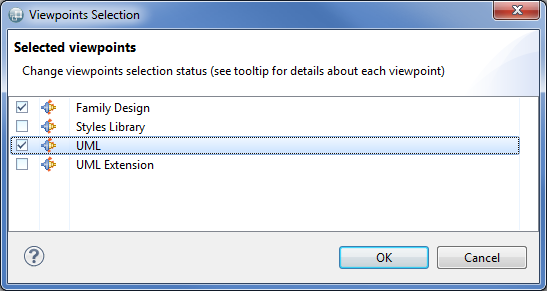
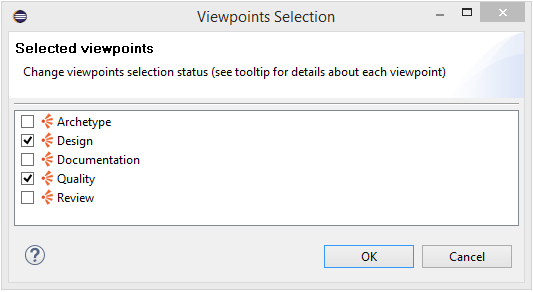
[460603] Change decorators in the Viewpoint Selection Dialog
In the Viewpoint Selection Dialog and in ViewpointsSelectionWizardPage,
remove the "plug-in" decorator for
viewpoints loaded from plug-ins, and add a "Folder" decorator for
viewpoints loaded from the current workspace.

Bug: 460603

diff --git a/plugins/org.eclipse.sirius.doc/doc/Release Notes.html b/plugins/org.eclipse.sirius.doc/doc/Release Notes.html
@@ -41,6 +41,10 @@
 		</ol>
 		<p>This document contains the release notes for all major releases of Sirius.</p>
 		<h2 id="sirius3.0.0">Changes in Sirius 3.0.0 (from Sirius 2.0.0)</h2>
+		<h3 id="UserVisibleChanges">User-Visible Changes</h3>
+		<ul>
+			<li>In the Viewpoint Selection Dialog and ViewpointsSelectionWizardPage, the &#171;plug-in&#187; decorator for viewpoints loaded from plug-ins is removed, and a &#171;Folder&#187; decorator for viewpoints loaded from the current workspace has been added on the top of the default viewpoint icon.</li>
+		</ul>
 		<h3 id="SpecifierVisibleChanges">Specifier-Visible Changes</h3>
 		<ul>
 			<li>In Open menu, the menu is computed from the navigation tool label instead of its name/id.</li>
@@ -75,7 +79,7 @@
 				<code>org.eclipse.sirius.business.api.helper.SiriusUtil.ENVIRONMENT_URI_SCHEME</code> declares environment URI scheme.
 			</li>
 			<li>Constant 
-				<code>org.eclipse.sirius.business.api.helper.SiriusUtil.VIEWPOINT_ENVIRONMENT_RESOURCE_URI</code> declares &#8220;environment:/viewpoint&#8221; resource uri.
+				<code>org.eclipse.sirius.business.api.helper.SiriusUtil.VIEWPOINT_ENVIRONMENT_RESOURCE_URI</code> declares &#171;environment:/viewpoint&#187; resource uri.
 			</li>
 			<li>Constant 
 				<code>org.eclipse.sirius.viewpoint.description.util.DescriptionResourceImpl.OPTION_SIRIUS_USE_URI_FRAGMENT_AS_ID</code> added to define a option to enable the use of a id map for odesign resource, id being uri&#8217;s fragment. 
@@ -88,14 +92,6 @@
 			<li>The 
 				<code>org.eclipse.sirius.business.api.session.Session.createSemanticResource()</code> method has been removed. Use 
 				<code>Session.addSemanticResource()</code> instead.
-			</li>
-		</ul>
-		<h4 id="Changesinorg.eclipse.sirius.ui">Changes in 
-			<code>org.eclipse.sirius.ui</code>
-		</h4>
-		<ul>
-			<li>The method 
-				<code>org.eclipse.sirius.ui.business.api.session.IEditingSession.detachEditor(DialectEditor, boolean)</code> has been added to choose whether we should revert the user changes when detaching the editor.
 			</li>
 			<li>
 				<code>org.eclipse.sirius.viewpoint.RGBValues</code> has been changed from an 
@@ -127,6 +123,14 @@
 				<code>org.eclipse.sirius.ext.emf.ui.ICellEditorProvider</code> has been added to allow clients to provide their own 
 				<code>CellEditor</code> - in the Sirius semantic properties views &#8211; through the new extension point 
 				<code>org.eclipse.sirius.ui.siriuspropertiescelleditor</code>.
+			</li>
+		</ul>
+		<h4 id="Changesinorg.eclipse.sirius.ui2">Changes in 
+			<code>org.eclipse.sirius.ui</code>
+		</h4>
+		<ul>
+			<li>The method 
+				<code>org.eclipse.sirius.ui.business.api.session.IEditingSession.detachEditor(DialectEditor, boolean)</code> has been added to choose whether we should revert the user changes when detaching the editor.
 			</li>
 		</ul>
 		<h4 id="Changesinorg.eclipse.sirius.common">Changes in 
@@ -303,7 +307,7 @@
 				<code>org.eclipse.sirius.diagram.tools.api.command.ChangeLayerActivationCommand</code> has been added. This command was previously internal.
 			</li>
 			<li>Constant 
-				<code>org.eclipse.sirius.diagram.business.api.helper.SiriusDiagramUtil.DIAGRAM_ENVIRONMENT_RESOURCE_URI</code> declares &#8220;environment:/diagram&#8221; resource uri.
+				<code>org.eclipse.sirius.diagram.business.api.helper.SiriusDiagramUtil.DIAGRAM_ENVIRONMENT_RESOURCE_URI</code> declares &#171;environment:/diagram&#187; resource uri.
 			</li>
 			<li>The method 
 				<code>org.eclipse.sirius.diagram.business.api.diagramtype.IDiagramDescriptionProvider.completeToolTipText(String, EObject, EStructuralFeature)</code> has been added to customize the tooltip displayed in the VSM editor by using the feature of the current object. The old method 
@@ -460,7 +464,7 @@
 			</li>
 		</ul>
 		<h2 id="sirius2.0.0">Changes in Sirius 2.0.0 (from Sirius 1.0.0)</h2>
-		<h3 id="UserVisibleChanges">User-Visible Changes</h3>
+		<h3 id="UserVisibleChanges2">User-Visible Changes</h3>
 		<ul>
 			<li>It is now possible to select element that intersects the selection rectangle and not that is completely contained by the selection rectangle. This new behavior is enabled when user selects elements from right to left. The normal mode (previous mode) remains when the user selects elements from left to right.</li>
 			<li>The edges appearance is now kept, as much as possible, when one of its extremity is moved. A move of an extremity should move only the closest segment of the edge.</li>
@@ -476,13 +480,13 @@
 			<img border="0" src="images/containerResize-changedBehavior.gif"/>
 		</p>
 		<ul>
-			<li>The &#8220;snap to shapes&#8221; is now enabled by default (see  
+			<li>The &#171;snap to shapes&#187; is now enabled by default (see  
 				<em>Sirius &gt; Sirius Diagram &gt; Rulers and Grid</em> preference page). This is true only for new diagrams. The existing diagrams are not impacted.
 			</li>
-			<li>The &#8220;Navigate&#8221; top-level contextual menu entry with mixed actions for creating new representations and opening existing ones has been changed by two top-level menus:
+			<li>The &#171;Navigate&#187; top-level contextual menu entry with mixed actions for creating new representations and opening existing ones has been changed by two top-level menus:
 				<ul>
-					<li>One named &#8220;New&#8221;, which lists only the available actions to create new representations on the selected element.</li>
-					<li>One named &#8220;Open&#8221;, which lists only the existing representations on the selected element. </li>
+					<li>One named &#171;New&#187;, which lists only the available actions to create new representations on the selected element.</li>
+					<li>One named &#171;Open&#187;, which lists only the existing representations on the selected element. </li>
 				</ul>
 			</li>
 			<li>When a shape is resized (no matter the direction), the edge(s) connection location (toward or from this one) is kept. Before that, edges connections moved according to the ratio of the resizing.</li>
@@ -507,19 +511,19 @@
 					<li>Distribute centers vertically</li>
 				</ul>
 			</li>
-			<li>The end user can now remove all bend-points between the two edge ends. This action is available on edge context menu &#8220;Remove Bend-points&#8221; or by using the shortcut &#8220;Ctrl&#8221; + &#8220;Shift&#8221; + &#8220;-&#8221;.</li>
+			<li>The end user can now remove all bend-points between the two edge ends. This action is available on edge context menu &#171;Remove Bend-points&#187; or by using the shortcut &#171;Ctrl&#187; + &#171;Shift&#187; + &#171;-&#187;.</li>
 			<li>Reconnection of an edge will only now move the minimum necessary bendpoints instead of reseting it to default.</li>
 			<li>A new action has been added to reset the diagram (or container) origin: the diagram (or container) bounds (the rectangle formed by the highest, the leftmost, the lowest and the rightmost children elements) can have a negative origin or can be shifted toward the bottom-right with a blank zone at the top-left. This action aims to move all diagram (or container) elements so that the it retrieves its origin while keeping elements layout.</li>
 		</ul>
 		<h3 id="SpecifierVisibleChanges2">Specifier-Visible Changes</h3>
 		<ul>
-			<li>The specifier can now choose to hold the edge ends toward the center of the source, target or both. New fields within the &#8220;advance&#8221; tab of EdgeStyle description have been added to choose for which source or target mappings an edge should be centered. See 
+			<li>The specifier can now choose to hold the edge ends toward the center of the source, target or both. New fields within the &#171;advance&#187; tab of EdgeStyle description have been added to choose for which source or target mappings an edge should be centered. See 
 				<a href="specifier/diagrams/Diagrams.html#edges_styles">Edges Styles &gt; Edge Centering</a> in the specifier manual for more details.
 			</li>
 			<li>When creating a new Viewpoint Specification Project using the supplied wizard: 
-				<em>New &gt; Viewpoint Specification Project</em>, the VSM name is now given according to the project name. If the project name is suffixed with &#8220;design&#8221;, the VSM name is provided by the last word before this suffix. Otherwise, the VSM name is given by the last word of the project name.
+				<em>New &gt; Viewpoint Specification Project</em>, the VSM name is now given according to the project name. If the project name is suffixed with &#171;design&#187;, the VSM name is provided by the last word before this suffix. Otherwise, the VSM name is given by the last word of the project name.
 			</li>
-			<li>&#8220;Lozenge&#8221; is replaced by &#8220;Diamond&#8221; in diagram style.</li>
+			<li>&#171;Lozenge&#187; is replaced by &#171;Diamond&#187; in diagram style.</li>
 		</ul>
 		<h3 id="APIChanges2">API Changes</h3>
 		<h4 id="Changesinorg.eclipse.sirius2">Changes in 
@@ -597,7 +601,7 @@
 				<code>org.eclipse.gmf.runtime.emf.core.util.CrossReferenceAdapter</code>. However considering the way Sirius uses GMF, this adapter is not needed.
 			</li>
 		</ul>
-		<h4 id="Changesinorg.eclipse.sirius.ui2">Changes in 
+		<h4 id="Changesinorg.eclipse.sirius.ui3">Changes in 
 			<code>org.eclipse.sirius.ui</code>
 		</h4>
 		<ul>
@@ -885,7 +889,7 @@
 			</li>
 		</ul>
 		<h2 id="sirius1.0.0">Changes in Sirius 1.0.0 (from Sirius 1.0.0M7)</h2>
-		<h3 id="UserVisibleChanges2">User-Visible Changes</h3>
+		<h3 id="UserVisibleChanges3">User-Visible Changes</h3>
 		<ul>
 			<li>The ability to print table representations has been disabled for the 1.0.0 release due to an external dependency issue (see <a href="https://bugs.eclipse.org/bugs/show_bug.cgi?id=435204" target="_blank">bug #435204</a> for the details).</li>
 		</ul>
@@ -952,7 +956,7 @@
 		<h3 id="SpecifierVisibleChanges4">Specifier-Visible Changes</h3>
 		<ul>
 			<li>The default value of the 
-				<em>Semantic Candidates Expression</em> for Tree Items has changed from an empty string (meaning &#8220;any compatible element in the session&#8221;) to 
+				<em>Semantic Candidates Expression</em> for Tree Items has changed from an empty string (meaning &#171;any compatible element in the session&#187;) to 
 				<code>feature:eAllContents</code> which only looks for compatible candidates inside the current element (recursively). The new behavior is more efficient on large models and consistent with what happens for diagrams. The change does not affect existing VSMs which continue to work as before whatever was the expression they used. Users who want the old behavior on specific mappings can simply remove the expression in the properties view.
 			</li>
 			<li>In the 
@@ -985,7 +989,7 @@
 			<code>org.eclipse.diagram</code> again.
 		</p>
 		<p>Unlike, the 
-			<a href="#separationOfDiagramSpecificConcept-step1">Step1</a>, a simple &#8220;Organize Imports&#8221; operation is not enough. First, you will probably need to add dependencies to 
+			<a href="#separationOfDiagramSpecificConcept-step1">Step1</a>, a simple &#171;Organize Imports&#187; operation is not enough. First, you will probably need to add dependencies to 
 			<code>org.eclipse.sirius.diagram</code>, 
 			<code>org.eclipse.sirius.diagram.ui</code> or 
 			<code>org.eclipse.sirius.editor.diagram</code> in the MANIFEST.MF of your projects that depend on Sirius diagram classes. The dependencies to add depend on what you really use.
@@ -1396,7 +1400,7 @@
 				<code>org.eclipse.sirius.diagram.sequence.template.Transformer</code> interface instead, which is functionally equivalent.
 			</li>
 		</ul>
-		<h4 id="Changesinorg.eclipse.sirius.ui3">Changes in 
+		<h4 id="Changesinorg.eclipse.sirius.ui4">Changes in 
 			<code>org.eclipse.sirius.ui</code>
 		</h4>
 		<ul>
@@ -1412,7 +1416,7 @@
 				<code>Multimap</code>.
 			</li>
 			<li>
-				<code>org.eclipse.sirius.ui.tools.api.project.ModelingProjectManager.initializeAfterLoad()</code> method has been removed. There is no replacement for this method documented as &#8220;Not intended to be used by client&#8221;.
+				<code>org.eclipse.sirius.ui.tools.api.project.ModelingProjectManager.initializeAfterLoad()</code> method has been removed. There is no replacement for this method documented as &#171;Not intended to be used by client&#187;.
 			</li>
 		</ul>
 		<h4 id="Changesinorg.eclipse.sirius.ecore.extender3">Changes in 
@@ -1612,7 +1616,7 @@ if (rootPackage != null &amp;&amp; rootPackage.getNsURI().equals(DiagramPackage.
 				<code>new org.eclipse.sirius.business.api.query.EObjectQuery(element).getParentDiagram()</code> instead.
 			</li>
 		</ul>
-		<h4 id="Changesinorg.eclipse.sirius.ui4">Changes in 
+		<h4 id="Changesinorg.eclipse.sirius.ui5">Changes in 
 			<code>org.eclipse.sirius.ui</code>
 		</h4>
 		<ul>
@@ -1654,29 +1658,29 @@ if (rootPackage != null &amp;&amp; rootPackage.getNsURI().equals(DiagramPackage.
 			</li>
 		</ul>
 		<h2 id="sirius1.0M5">Changes in Sirius 1.0.0M5 (from Sirius 1.0M4)</h2>
-		<h3 id="UserVisibleChanges3">User-Visible Changes</h3>
+		<h3 id="UserVisibleChanges4">User-Visible Changes</h3>
 		<ul>
-			<li>The table csv export has been improved to handle cropped label. In some specific cases, the cell label is automatically cropped and &#8216;...&#8217; is concatenated to the resulting value. This cropped displayed label was previously exported, now the complete semantic value is exported.</li>
+			<li>The table csv export has been improved to handle cropped label. In some specific cases, the cell label is automatically cropped and &#8249;...&#8250; is concatenated to the resulting value. This cropped displayed label was previously exported, now the complete semantic value is exported.</li>
 		</ul>
 		<h3 id="APIChanges6">API Changes</h3>
 		<h4 id="LibraryExtensions">Library Extensions</h4>
-		<p>This milestone (Sirius 1.0M5) introduces several new plug-ins, collectively called &#8220;library extensions&#8221;. They are all named 
+		<p>This milestone (Sirius 1.0M5) introduces several new plug-ins, collectively called &#171;library extensions&#187;. They are all named 
 			<code>org.eclipse.sirius.ext.LIB</code>, where 
-			<code>LIB</code> is the name of a library or component Sirius depends on. These plug-ins are used to isolate generic code which extends existing libraries with features and helpers needed for Sirius, but which do not depend on Sirius themselves. A relatively large part of the code in Sirius is of this kind: things that could/should be in EMF, GMF, Eclipse itself, etc. and which are not Sirius-specific but which make it easier to build Sirius itself. Sirius 1.0M5 introduces several of these library extensions and starts to fill them with existing classes which were &#8220;hidden&#8221; inside Sirius and are now exposed in library extensions. Most of the time, existing code which used the Sirius API will only need to:
+			<code>LIB</code> is the name of a library or component Sirius depends on. These plug-ins are used to isolate generic code which extends existing libraries with features and helpers needed for Sirius, but which do not depend on Sirius themselves. A relatively large part of the code in Sirius is of this kind: things that could/should be in EMF, GMF, Eclipse itself, etc. and which are not Sirius-specific but which make it easier to build Sirius itself. Sirius 1.0M5 introduces several of these library extensions and starts to fill them with existing classes which were &#171;hidden&#187; inside Sirius and are now exposed in library extensions. Most of the time, existing code which used the Sirius API will only need to:
 		</p>
 		<ol>
 			<li>Add the necessary 
 				<code>Import-Package</code> (recommended) or 
 				<code>Require-Bundle</code> to depend on the library extension(s) where the code they use now lives;
 			</li>
-			<li>Perform a simple &#8220;Organize Imports&#8221; operation, which should find the classes and interfaces in their new locations.</li>
+			<li>Perform a simple &#171;Organize Imports&#187; operation, which should find the classes and interfaces in their new locations.</li>
 		</ol>
 		<h4 id="separationOfDiagramSpecificConcept-step1">Move diagram-specific EClasses into a separate EPackage</h4>
 		<p>For historical reasons, the core Sirius metamodels defined in viewpoint.ecore contain both generic (dialect-independant like Viewpoint, RepresentationDescription, DAnalysis...) concepts and diagram-specific ones (e.g. DNode, EdgeStyle, ContainerCreationDescription...). The table and tree metamodels are more cleanly separated.
 			<br/>This milestone (Sirius 1.0M5) includes the first step towards a full separation of the diagram-specific stuff out of the core of Sirius. So many EClasses have been moved.
 		</p>
-		<p>Most of the time, existing code which used these Sirius EClasses will only need to perform a simple &#8220;Organize Imports&#8221; operation, which should find the classes and interfaces in their new locations.
-			<br/>The &#8220;Organize imports&#8221; is not sufficient in case of imported classes existing several time in different packages (
+		<p>Most of the time, existing code which used these Sirius EClasses will only need to perform a simple &#171;Organize Imports&#187; operation, which should find the classes and interfaces in their new locations.
+			<br/>The &#171;Organize imports&#187; is not sufficient in case of imported classes existing several time in different packages (
 			<code>EFactory</code> classes for example with 
 			<code>DescriptionFactory</code>, or 
 			<code>EPackage</code> classes for example with 
@@ -1780,7 +1784,7 @@ if (rootPackage != null &amp;&amp; rootPackage.getNsURI().equals(DiagramPackage.
 				<code>DCellQuery.getExportableLabel()</code> to compute the cell labels used in HTML export.
 			</li>
 		</ul>
-		<h4 id="Changesinorg.eclipse.sirius.ui5">Changes in 
+		<h4 id="Changesinorg.eclipse.sirius.ui6">Changes in 
 			<code>org.eclipse.sirius.ui</code>
 		</h4>
 		<ul>
@@ -1790,7 +1794,7 @@ if (rootPackage != null &amp;&amp; rootPackage.getNsURI().equals(DiagramPackage.
 			</li>
 		</ul>
 		<h2 id="sirius1.0M4">Changes in Sirius 1.0.0M4 (from Sirius 0.9)</h2>
-		<h3 id="UserVisibleChanges4">User-Visible Changes</h3>
+		<h3 id="UserVisibleChanges5">User-Visible Changes</h3>
 		<ul>
 			<li>The ability to print table representations, which had been disabled for the 0.9 release, has been re-enabled.</li>
 		</ul>
@@ -2030,7 +2034,7 @@ if (rootPackage != null &amp;&amp; rootPackage.getNsURI().equals(DiagramPackage.
 				<code>ECrossReferenceAdapter</code> can be null.
 			</li>
 		</ul>
-		<h4 id="Changesinorg.eclipse.sirius.ui6">Changes in 
+		<h4 id="Changesinorg.eclipse.sirius.ui7">Changes in 
 			<code>org.eclipse.sirius.ui</code>
 		</h4>
 		<ul>
@@ -2091,7 +2095,7 @@ if (rootPackage != null &amp;&amp; rootPackage.getNsURI().equals(DiagramPackage.
 			</li>
 		</ul>
 		<h2 id="sirius0.9">Changes in Sirius 0.9.0</h2>
-		<p>Version 0.9.0 is the first release under the Sirius name and under the Eclipse Foundation umbrella. Except for the few cases mentioned below (in the &#8220;Other API Changes&#8221;, &#8220;Specifier-Visible Changes&#8221; and &#8220;User-Visible Changes&#8221; sections), Sirius 0.9.0 is functionally equivalent to the latest version of Viewpoint (version 6.10), which was the name of the project before it was open sourced at Eclipse. See the rest of the documentation for the complete list of feature of the Sirius platform.</p>
+		<p>Version 0.9.0 is the first release under the Sirius name and under the Eclipse Foundation umbrella. Except for the few cases mentioned below (in the &#171;Other API Changes&#187;, &#171;Specifier-Visible Changes&#187; and &#171;User-Visible Changes&#187; sections), Sirius 0.9.0 is functionally equivalent to the latest version of Viewpoint (version 6.10), which was the name of the project before it was open sourced at Eclipse. See the rest of the documentation for the complete list of feature of the Sirius platform.</p>
 		<h3 id="MigratingfromObeoDesignerorViewpointtoSirius">Migrating from Obeo Designer or Viewpoint to Sirius</h3>
 		<p>If you have existing projects which used this technology before it became Eclipse Sirius and want to migrate to Sirius, you must:</p>
 		<ol>
@@ -2115,9 +2119,9 @@ if (rootPackage != null &amp;&amp; rootPackage.getNsURI().equals(DiagramPackage.
 				<code>org.eclipse.sirius.componentization</code> extension point id. The identifier changes for the other extension points follow the same rules as the name changes of the plug-ins they are defined in.
 			</li>
 			<li>The migration of your VSMs (
-				<code>*.odesign</code> files) is automatic: simply open your files once in the VSM editor, perform some no-op change to make the editor &#8220;dirty&#8221; and save it. The saved version will have been migrated to Sirius.
+				<code>*.odesign</code> files) is automatic: simply open your files once in the VSM editor, perform some no-op change to make the editor &#171;dirty&#187; and save it. The saved version will have been migrated to Sirius.
 			</li>
-			<li>If you had Java code which used the Viewpoint APIs, you will need to update it to use the Sirius APIs. A simple &#8220;Source &gt; Organize Imports&#8221; on your source folders should find most classes you used in their new namespace. The Viewpoint code base and APIs used the term &#8220;Viewpoint&#8221; both for the name of the product and for the name of the concept. When it refered to the name of the product, the names were changed to use &#8220;Sirius&#8221; instead, so you may need to adjust some names in your code beyond just updating the imports (for example, 
+			<li>If you had Java code which used the Viewpoint APIs, you will need to update it to use the Sirius APIs. A simple &#171;Source &gt; Organize Imports&#187; on your source folders should find most classes you used in their new namespace. The Viewpoint code base and APIs used the term &#171;Viewpoint&#187; both for the name of the product and for the name of the concept. When it refered to the name of the product, the names were changed to use &#171;Sirius&#187; instead, so you may need to adjust some names in your code beyond just updating the imports (for example, 
 				<code>ViewpointControlCommand</code> is now 
 				<code>SiriusControlCommand</code>).
 			</li>
@@ -2132,7 +2136,7 @@ if (rootPackage != null &amp;&amp; rootPackage.getNsURI().equals(DiagramPackage.
 		<h4 id="MigratingModelingProjectsandRepresentationFiles">Migrating Modeling Projects and Representation Files</h4>
 		<ul>
 			<li>First migrate any modeler definitions used by your modeling projects and representation files (see the section above).</li>
-			<li>Modeling projects created using Viewpoint will not be recognized directly by Sirius, because the nature identfier has changed. You must use the &#8220;Configure/Convert to Modeling Project&#8221; action in the project&#8217;s context menu to make it a Sirius-compatible modeling project (see the section below for the technical details of the change).</li>
+			<li>Modeling projects created using Viewpoint will not be recognized directly by Sirius, because the nature identfier has changed. You must use the &#171;Configure/Convert to Modeling Project&#187; action in the project&#8217;s context menu to make it a Sirius-compatible modeling project (see the section below for the technical details of the change).</li>
 			<li>The migration of you representation files (
 				<code>*.aird</code>) is performed automatically when they are loaded in memory. It will become permanent the first time you save it (you can force this by opening a representation, making some arbitrary change and saving the session).
 			</li>
@@ -2308,20 +2312,20 @@ if (rootPackage != null &amp;&amp; rootPackage.getNsURI().equals(DiagramPackage.
 			</tr>
 		</table>
 		<h4 id="JavaPackagesandClassesNames">Java Packages and Classes Names</h4>
-		<p>The Java package names have changed to start with the identifier of the plug-in they are defined in (which has changed). A simple &#8220;Source &gt; Organize Imports&#8221; on your source folders should find most classes you used in their new namespace.</p>
-		<p>The Viewpoint code base and APIs used the term &#8220;Viewpoint&#8221; both for the name of the product and for the name of the concept. When it refered to the name of the product, the names where changed to use &#8220;Sirius&#8221; instead (for example, 
+		<p>The Java package names have changed to start with the identifier of the plug-in they are defined in (which has changed). A simple &#171;Source &gt; Organize Imports&#187; on your source folders should find most classes you used in their new namespace.</p>
+		<p>The Viewpoint code base and APIs used the term &#171;Viewpoint&#187; both for the name of the product and for the name of the concept. When it refered to the name of the product, the names where changed to use &#171;Sirius&#187; instead (for example, 
 			<code>ViewpointControlCommand</code> is now 
 			<code>SiriusControlCommand</code>).
 		</p>
 		<h4 id="ModelsnamespaceURIs">Models namespace URIs</h4>
-		<p>All namespace URIs have also been changed from &#8220;http://www.obeo.fr/dsl/viewpoint*&#8221; to &#8220;http://www.eclipse.org/sirius/&#8221;.</p>
+		<p>All namespace URIs have also been changed from &#171;http://www.obeo.fr/dsl/viewpoint*&#187; to &#171;http://www.eclipse.org/sirius/&#187;.</p>
 		<p>If you have created VSM file (.odesign) or representations file (.aird) with Viewpoint, the changes of the namespace URIs will be automatically migrated during the loading of your VSM or your representations file. These new nsURIs will be stored physically in the file during the first save. If the file is not saved, the automatic migration will be replayed at the next opening.</p>
 		<h3 id="NatureID">Nature ID</h3>
 		<p>The modeling project has a specific nature (
 			<code>org.eclipse.sirius.nature.modelingproject</code>).
-			<br/>If you have modeling project created with Viewpoint, you must launch the action &#8220;Configure/Convert to Modeling Project&#8221; to replace old nature id (
+			<br/>If you have modeling project created with Viewpoint, you must launch the action &#171;Configure/Convert to Modeling Project&#187; to replace old nature id (
 			<code>fr.obeo.dsl.viewpoint.nature.modelingproject</code>) by the new one.
-			<br/>If you have many modeling projects to &#8220;migrate&#8221;, you can easily make a script to replace 
+			<br/>If you have many modeling projects to &#171;migrate&#187;, you can easily make a script to replace 
 			<code>fr.obeo.dsl.viewpoint.nature.modelingproject</code> by 
 			<code>org.eclipse.sirius.nature.modelingproject</code> in all 
 			<code>.project</code> file of each modeling projects.
@@ -2388,7 +2392,7 @@ void removeSelectedView(DView view);
 				<em>targetView</em>: the target view of the current edge.
 			</li>
 		</ul>
-		<h3 id="UserVisibleChanges5">User-Visible Changes</h3>
+		<h3 id="UserVisibleChanges6">User-Visible Changes</h3>
 		<ul>
 			<li>The ability to print table representations has been disabled for the 0.9 release due to an external dependency issue (see <a href="https://bugs.eclipse.org/bugs/show_bug.cgi?id=422223" target="_blank">bug #422223</a>: for the details). It should be re-introduced in 1.0.</li>
 		</ul>

diff --git a/plugins/org.eclipse.sirius.ui/src/org/eclipse/sirius/ui/business/internal/viewpoint/ViewpointSelectionDialog.java b/plugins/org.eclipse.sirius.ui/src/org/eclipse/sirius/ui/business/internal/viewpoint/ViewpointSelectionDialog.java
@@ -199,9 +199,9 @@ public class ViewpointSelectionDialog extends TitleAreaDialog {
             // Default image
             Image viewpointImage = SiriusEditPlugin.getPlugin().getBundledImage("icons/full/obj16/Viewpoint.gif");
 
-            // Overlayed image ?
-            if (ViewpointRegistry.getInstance().isFromPlugin(item.getViewpoint())) {
-                final ImageDescriptor decoratorDescriptor = SiriusEditPlugin.Implementation.getBundledImageDescriptor("icons/full/others/plugin.gif");
+            // Add decorator if the viewpoint comes from workspace
+            if (!ViewpointRegistry.getInstance().isFromPlugin(item.getViewpoint())) {
+                final ImageDescriptor decoratorDescriptor = SiriusEditPlugin.Implementation.getBundledImageDescriptor("icons/full/decorator/folder_close.gif");
                 viewpointImage = SiriusEditPlugin.getPlugin().getImage(new DecorationOverlayIcon(viewpointImage, decoratorDescriptor, IDecoration.BOTTOM_LEFT));
             }
 

diff --git a/plugins/org.eclipse.sirius.ui/src/org/eclipse/sirius/ui/tools/api/wizards/page/ViewpointsSelectionWizardPage.java b/plugins/org.eclipse.sirius.ui/src/org/eclipse/sirius/ui/tools/api/wizards/page/ViewpointsSelectionWizardPage.java
@@ -537,8 +537,9 @@ public class ViewpointsSelectionWizardPage extends WizardPage {
         }
 
         private Image getEnhancedImage(final Image image, final Viewpoint viewpoint) {
-            if (ViewpointRegistry.getInstance().isFromPlugin(viewpoint) && image != null) {
-                return SiriusEditPlugin.getPlugin().getImage(getOverlayedDescriptor(image, "icons/full/ovr16/plugin_ovr.gif"));
+            // Add decorator if the viewpoint comes from workspace
+            if (!ViewpointRegistry.getInstance().isFromPlugin(viewpoint) && image != null) {
+                return SiriusEditPlugin.getPlugin().getImage(getOverlayedDescriptor(image, "icons/full/decorator/folder_close.gif"));
             }
             return image;
         }

diff --git a/plugins/org.eclipse.sirius.ui/src/org/eclipse/sirius/ui/business/api/viewpoint/ViewpointSelection.java b/plugins/org.eclipse.sirius.ui/src/org/eclipse/sirius/ui/business/api/viewpoint/ViewpointSelection.java
@@ -665,7 +665,7 @@ public final class ViewpointSelection {
 
         private Image getEnhancedImage(final Image image, final Viewpoint viewpoint) {
             if (ViewpointRegistry.getInstance().isFromPlugin(viewpoint) && image != null) {
-                return SiriusEditPlugin.getPlugin().getImage(getOverlayedDescriptor(image, "icons/full/others/plugin.gif"));
+                return SiriusEditPlugin.getPlugin().getImage(getOverlayedDescriptor(image, "icons/full/decorator/folder_close.gif"));
             }
             return image;
         }
